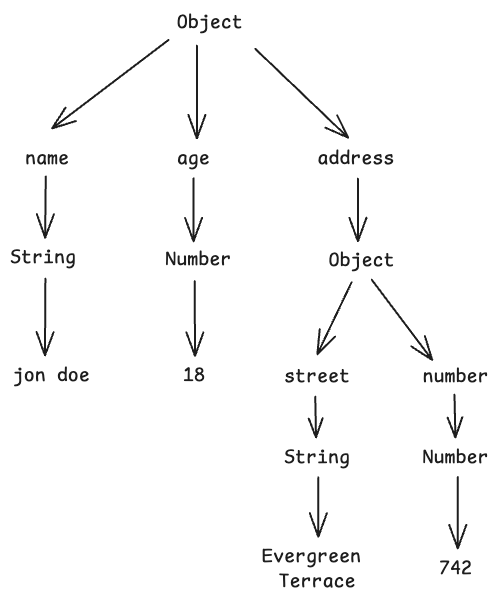
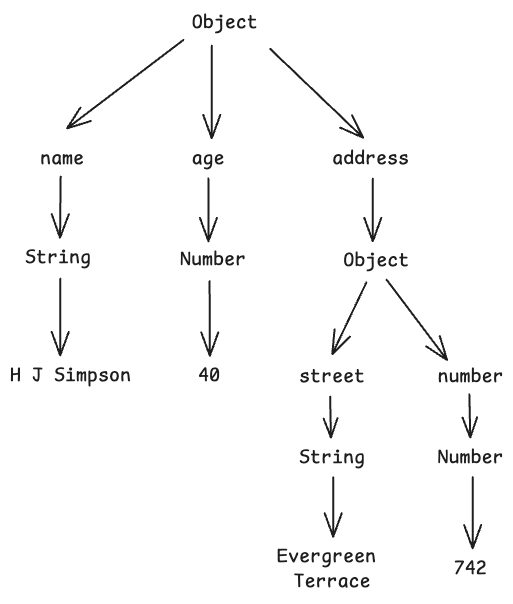
fix(winnow-rs): add missing slides

diff --git a/themes/rusty.css b/themes/rusty.css
@@ -18,7 +18,7 @@ html * {
  *********************************************/
  /* Colors are WCAG AA for Large text */
 :root {
-  --r-background-color: #fff8e6;
+  --r-background-color: #fffbf0;
   --r-main-font: sans-serif;
   --r-main-font-size: 40px;
   --r-main-color: #657b83;

diff --git a/slides/parsers-with-winnow.md b/slides/parsers-with-winnow.md
@@ -1,6 +1,7 @@
 ---
 title: Cooking parsers with Winnow
 theme: themes/rusty.css
+highlightTheme: vs
 duration: 40 min
 ---
 <base target="_blank">
@@ -109,8 +110,8 @@ Notes:
 
 ```recp
 Take {potatoes}(3) and wrap them in &{aluminium foil}.
-Throw them in the fire of the grill
-Wait for t{1 hour}
+Place them directly into the coals of the grill.
+Let cook for t{1 hour} until the potatoes are fork-tender.
 ```
 
 ![github logo](./assets/github.png) <!-- .element:  width="40px" style="margin: 0" -->
@@ -143,7 +144,6 @@ Note:
 ## What was I needing?
 
 - A way to write recipes that was easy for humans and machines <!-- .element: class="fragment" data-fragment-index="0" -->
-- Single file <!-- .element: class="fragment" data-fragment-index="1" -->
 
 ---
 
@@ -172,8 +172,10 @@ Many sections
 
 ### First: What is a grammar?
 
-> a finite set of rules to generate strings that are in the grammar
+> a finite set of rules to generate strings
 <!-- .element: class="fragment" data-fragment-index="0" -->
+> that are in the grammar
+<!-- .element: class="fragment" data-fragment-index="1" -->
 
 ```sql
 SELECT ( ALL | DISTINCT )?
@@ -181,10 +183,10 @@ SELECT ( ALL | DISTINCT )?
         <select sublist> ( <comma> <select sublist> )* )
     )
 ```
-<!-- .element: class="fragment" data-fragment-index="1" -->
+<!-- .element: class="fragment" data-fragment-index="2" -->
 
-- SELECT is a terminal <!-- .element: class="fragment" data-fragment-index="1" -->
-- \<select sublist\> is a non-terminal <!-- .element: class="fragment" data-fragment-index="1" -->
+- SELECT is a terminal <!-- .element: class="fragment" data-fragment-index="2" -->
+- \<select sublist\> is a non-terminal <!-- .element: class="fragment" data-fragment-index="2" -->
 
 Notes:
 - it's actually a context-free grammar
@@ -206,8 +208,8 @@ Notes:
 
 ```json
 {
-  "name": "jon doe",
-  "age": 18,
+  "name": "H J Simpson",
+  "age": 40,
   "address": {
     "street": "Evrgrn Terace",
     "number": 742
@@ -231,13 +233,22 @@ Notes:
 
 ---
 
-## Choosing a parser
+### Choosing a parser
 
-- combinators (code)
-- grammars
-- regex
+| Grammars | Combinators | Regex |
+| --- | --- | --- |
+| New syntax | Familiar lang | New syntax |
+| Maintanable | Maintanable | Depends |
+| Reusable* |  | Reusable* |
+| Rely on macros | | |
+
+\* In theory <!-- .element: class="fragment" data-fragment-index="0" -->
+
 
 Notes:
+- This is almost never the case
+- antlr works in many languages, but not rust
+- all code is portable to other languages
 - is there a correct one? No
 - combinators: a mix of parser functions combined into a parser
 - combinators are more intuitive to me, easier to test
@@ -289,29 +300,6 @@ ident_list = _{ !digit ~ ident ~ (" " ~ ident)+ }
 ```re text-wrap
 (?:[a-z0-9!#$%&'*+/=?^_`{|}~-]+(?:\.[a-z0-9!#$%&'*+/=?^_`{|}~-]+)*|"(?:[\x01-\x08\x0b\x0c\x0e-\x1f\x21\x23-\x5b\x5d-\x7f]|\\[\x01-\x09\x0b\x0c\x0e-\x7f])*")@(?:(?:[a-z0-9](?:[a-z0-9-]*[a-z0-9])?\.)+[a-z0-9](?:[a-z0-9-]*[a-z0-9])?|\[(?:(?:(2(5[0-5]|[0-4][0-9])|1[0-9][0-9]|[1-9]?[0-9]))\.){3}(?:(2(5[0-5]|[0-4][0-9])|1[0-9][0-9]|[1-9]?[0-9])|[a-z0-9-]*[a-z0-9]:(?:[\x01-\x08\x0b\x0c\x0e-\x1f\x21-\x5a\x53-\x7f]|\\[\x01-\x09\x0b\x0c\x0e-\x7f])+)\])
 ```
-
----
-
-### Comparisson
-
-| Grammar | Combinator | Regex |
-| --- | --- | --- |
-| New syntax | Familiar language | New syntax |
-| Reuse in other languages* |  | Reuse in other languages* |
-| Rely on macros | | |
-| Maintanable | Maintanable | Depends |
-
-| |
-| --- |
-| Bindings for other languages  |
-
-
-\* In theory <!-- .element: class="fragment" data-fragment-index="0" -->
-
-
-Notes:
-- This is almost never the case
-- antlr works in many languages (not rust)
 
 ---
 
@@ -388,6 +376,159 @@ notes:
 
 _/Jay • SO • NOOOO/_ <!-- .element: class="fragment" data-fragment-index="0" -->
 
+---
+
+<!-- .slide: data-auto-animate -->
+
+### alt
+
+----
+
+<!-- .slide: data-auto-animate -->
+
+### alt
+
+![alt func](./assets/alt1.svg)
+
+----
+
+<!-- .slide: data-auto-animate -->
+
+### alt
+
+![alt func 2](./assets/alt2.svg)
+----
+
+<!-- .slide: data-auto-animate -->
+
+### alt
+
+![alt func 3](./assets/alt3.svg)
+----
+
+<!-- .slide: data-auto-animate -->
+
+### alt
+
+![alt func backtrack 4](./assets/alt4.svg)
+
+----
+
+```rs
+use winnow::combinator::alt;
+```
+
+---
+
+<!-- .slide: data-auto-animate -->
+
+### delimited
+
+----
+
+<!-- .slide: data-auto-animate -->
+
+### delimited
+
+![delimited 1](./assets/del1.svg)
+
+----
+
+<!-- .slide: data-auto-animate -->
+
+### delimited
+
+![delimited 2](./assets/del2.svg)
+
+----
+
+<!-- .slide: data-auto-animate -->
+
+### delimited
+
+![delimited 3](./assets/del3.svg)
+
+----
+
+```rs
+use winnow::combinator::delimited;
+
+let mut parser = delimited("(", "abc", ")");
+
+assert_eq!(parser.parse_peek("(abc)"), Ok(("", "abc")));
+```
+
+---
+
+## Error handling
+
+----
+
+### ErrMode
+
+Backtrack: recoverable (default) <!-- .element: class="fragment" data-fragment-index="0" -->
+
+Cut: unrecoverable <!-- .element: class="fragment" data-fragment-index="1" -->
+
+~`Incomplete`~ <!-- .element: class="fragment" data-fragment-index="2" -->
+
+Notes:
+- Incomplete only relevant for streaming
+
+----
+
+<!-- .slide: data-auto-animate -->
+
+### delimited
+
+![delimited 3](./assets/del3.svg)
+
+----
+
+<!-- .slide: data-auto-animate -->
+
+### delimited
+
+![delimited with cut error](./assets/del_err.svg)
+
+----
+
+```rs [1-14|7|8-10]
+use winnow::combinator::cut_err;
+use winnow::combinator::delimited;
+
+let mut parser = delimited(
+    "(",
+    "abc",
+    cut_err(")").context(
+        StrContext::Expected(
+            StrContextValue::CharLiteral('}')
+        )
+    )
+);
+
+assert_eq!(parser.parse_peek("(abc)"), Ok(("", "abc")));
+```
+
+----
+
+### Context
+
+- `StrContext::Label`
+- `StrContext::Expected`
+- `StrContextValue::CharLiteral`
+- `StrContextValue::StringLiteral`
+- `StrContextValue::Description`
+
+---
+
+## Wrap up
+
+- [winnow][winnow] is a well-documented powerful library
+- check out [crafting interpreters] book
+
+[winnow]: https://github.com/winnow-rs/winnow
+[crafting interpreters]: https://craftinginterpreters.com
 
 ---
 
